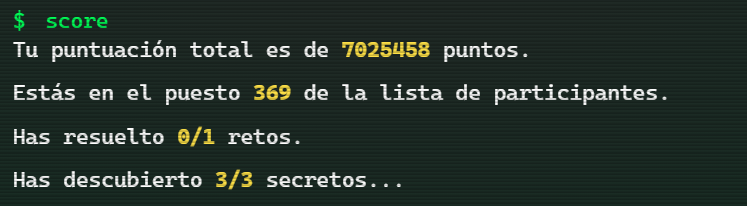
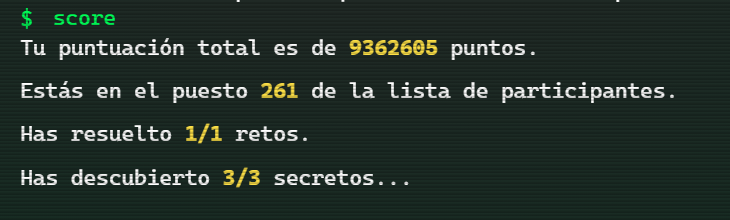
Solución Challenge_01
Cambio de puntuación

diff --git a/CHALLENGE_01/index.js b/CHALLENGE_01/index.js
@@ -1,0 +1,19 @@
+const message =
+  'murcielago leon jirafa cebra elefante rinoceronte hipopotamo ardilla mapache zorro lobo oso puma jaguar tigre leopardo gato perro caballo vaca toro cerdo oveja cabra gallina pato ganso pavo paloma halcon aguila buho colibri canario loro tucan pinguino flamenco tigre jaguar leopardo oso lobo zorro mapache ardilla elefante rinoceronte hipopotamo cebra jirafa leon murcielago cabra oveja cerdo toro vaca caballo perro gato leopardo tigre jaguar oso lobo zorro mapache ardilla hipopotamo rinoceronte elefante jirafa leon murcielago pavo ganso pato gallina cabra oveja cerdo toro vaca caballo perro gato leopardo tigre jaguar oso lobo zorro mapache ardilla hipopotamo rinoceronte elefante jirafa leon murcielago buho aguila halcon paloma pavo ganso pato gallina cabra oveja cerdo toro vaca caballo perro gato leopardo tigre jaguar oso lobo zorro mapache ardilla hipopotamo rinoceronte elefante jirafa leon murcielago colibri buho aguila halcon paloma pavo ganso pato gallina cabra oveja cerdo toro vaca caballo perro gato leopardo tigre jaguar oso lobo zorro mapache ardilla hipopotamo rinoceronte elefante jirafa leon murcielago tucan loro canario colibri buho aguila halcon paloma pavo ganso pato gallina cabra oveja cerdo toro vaca caballo perro gato leopardo tigre jaguar oso lobo zorro mapache ardilla hipopotamo rinoceronte elefante jirafa leon murcielago flamenco pinguino tucan loro canario colibri buho aguila halcon paloma pavo ganso pato gallina cabra oveja cerdo toro vaca caballo perro gato leopardo tigre jaguar oso lobo zorro mapache ardilla hipopotamo rinoceronte elefante jirafa leon murcielago jaguar oso lobo zorro mapache ardilla cebra elefante rinoceronte hipopotamo leon jirafa murcielago caballo vaca toro cerdo oveja cabra gallina pato ganso pavo paloma halcon aguila buho colibri canario loro tucan pinguino flamenco jaguar oso lobo zorro mapache ardilla cebra elefante rinoceronte hipopotamo leon jirafa murcielago caballo vaca toro cerdo oveja cabra gallina pato ganso pavo paloma halcon aguila buho colibri canario loro tucan pinguino flamenco murcielago leon jirafa cebra elefante rinoceronte hipopotamo ardilla mapache zorro lobo oso puma jaguar tigre leopardo gato perro caballo vaca toro cerdo oveja cabra gallina pato ganso pavo paloma halcon aguila buho colibri canario loro tucan pinguino flamenco oso lobo zorro mapache ardilla hipopotamo rinoceronte elefante jirafa leon murcielago cabra oveja cerdo toro vaca caballo perro gato leopardo tigre jaguar oso lobo zorro mapache ardilla cebra elefante rinoceronte hipopotamo jirafa leon murcielago pavo ganso pato gallina cabra oveja cerdo toro vaca caballo perro gato buho aguila halcon paloma colibri canario loro tucan pinguino flamenco jaguar oso lobo zorro mapache ardilla hipopotamo rinoceronte elefante jirafa leon murcielago cabra oveja cerdo toro vaca caballo perro gato buho aguila halcon paloma colibri canario loro tucan pinguino flamenco jaguar oso lobo zorro mapache ardilla hipopotamo rinoceronte elefante jirafa leon murcielago cabra oveja cerdo toro vaca caballo perro gato buho aguila halcon';
+
+const countMessage = (message) => {
+  let solution = [];
+
+  message
+    .toLowerCase()
+    .split(' ')
+    .forEach((word) => {
+      word in solution ? (solution[word] += 1) : (solution[word] = 1);
+    });
+
+  Object.entries(solution).forEach((entry) => (solution += `${entry[0]}${entry[1]}`));
+
+  return solution;
+};
+
+console.log(countMessage(message));
